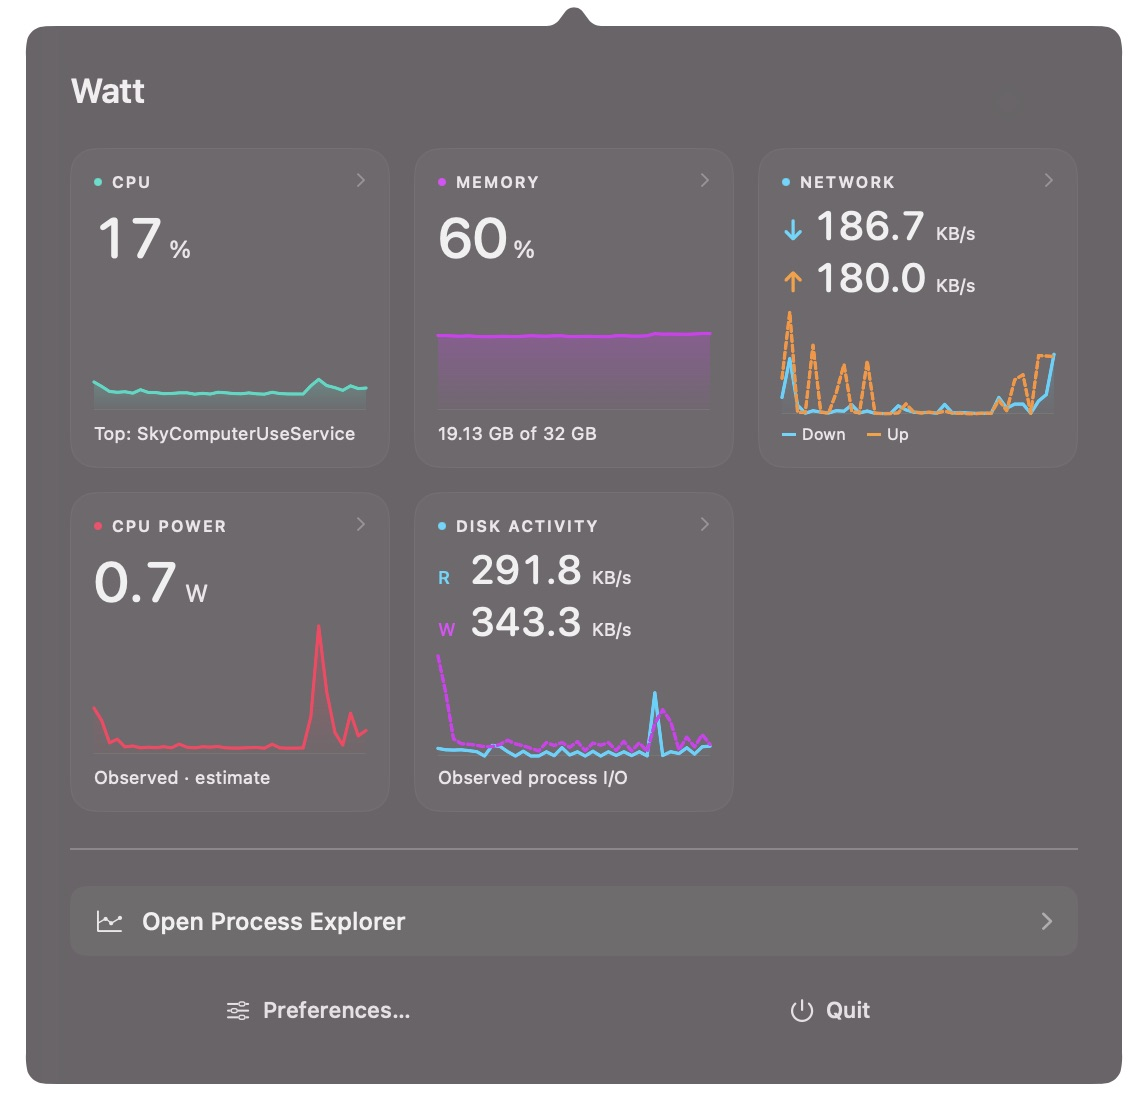
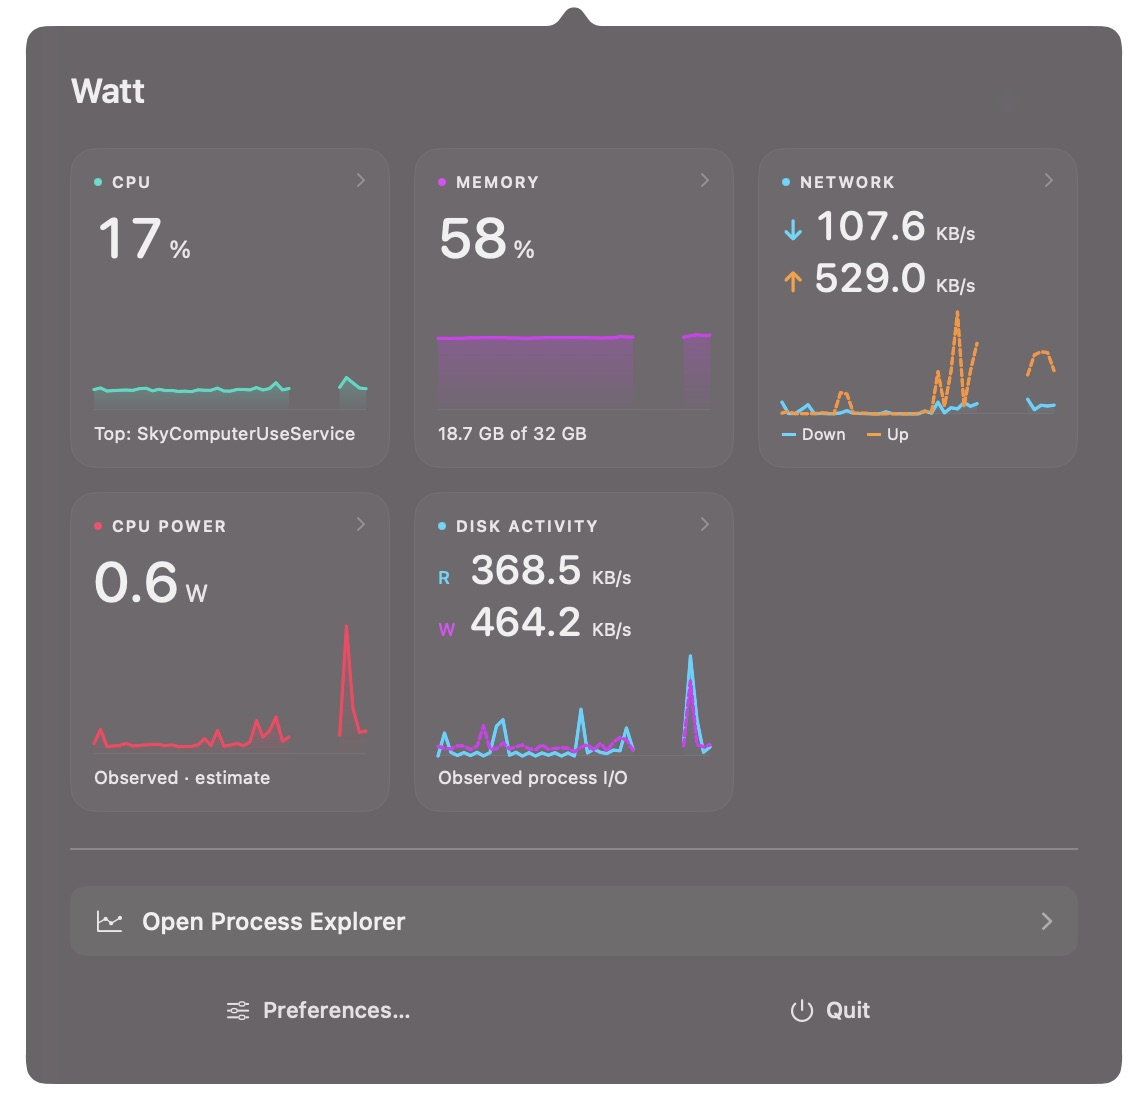
Refresh running-app comparison screenshots

diff --git a/docs/design/TILE_DETAILS.md b/docs/design/TILE_DETAILS.md
@@ -14,6 +14,8 @@ Per-interface addresses/breakdowns, real memory-pressure/accounting additions, e
 
 Running-app dashboard captures retain the existing three-column custom layout and hidden Battery tile, so eight original tiles consolidate into five visible categories. New/reset layouts use the six defaults shown in the design prototype.
 
+Native review verified tile navigation, Escape returning from detail to the overview and then closing it, reopening at the overview, and the Network detail handing its range, grouping, and ranking to Explorer. These captures use local app builds with a separate review identity; the installed app is unchanged. The ad-hoc-signed review copy cannot exercise the Developer ID-only Energy Impact helper. Longer battery and full-recorder overhead measurements remain release validation work.
+
 ![Before: running base app with existing custom layout](tile-details-before.png)
 
 ![After: running updated app preserving custom layout choices](tile-details-after.png)
